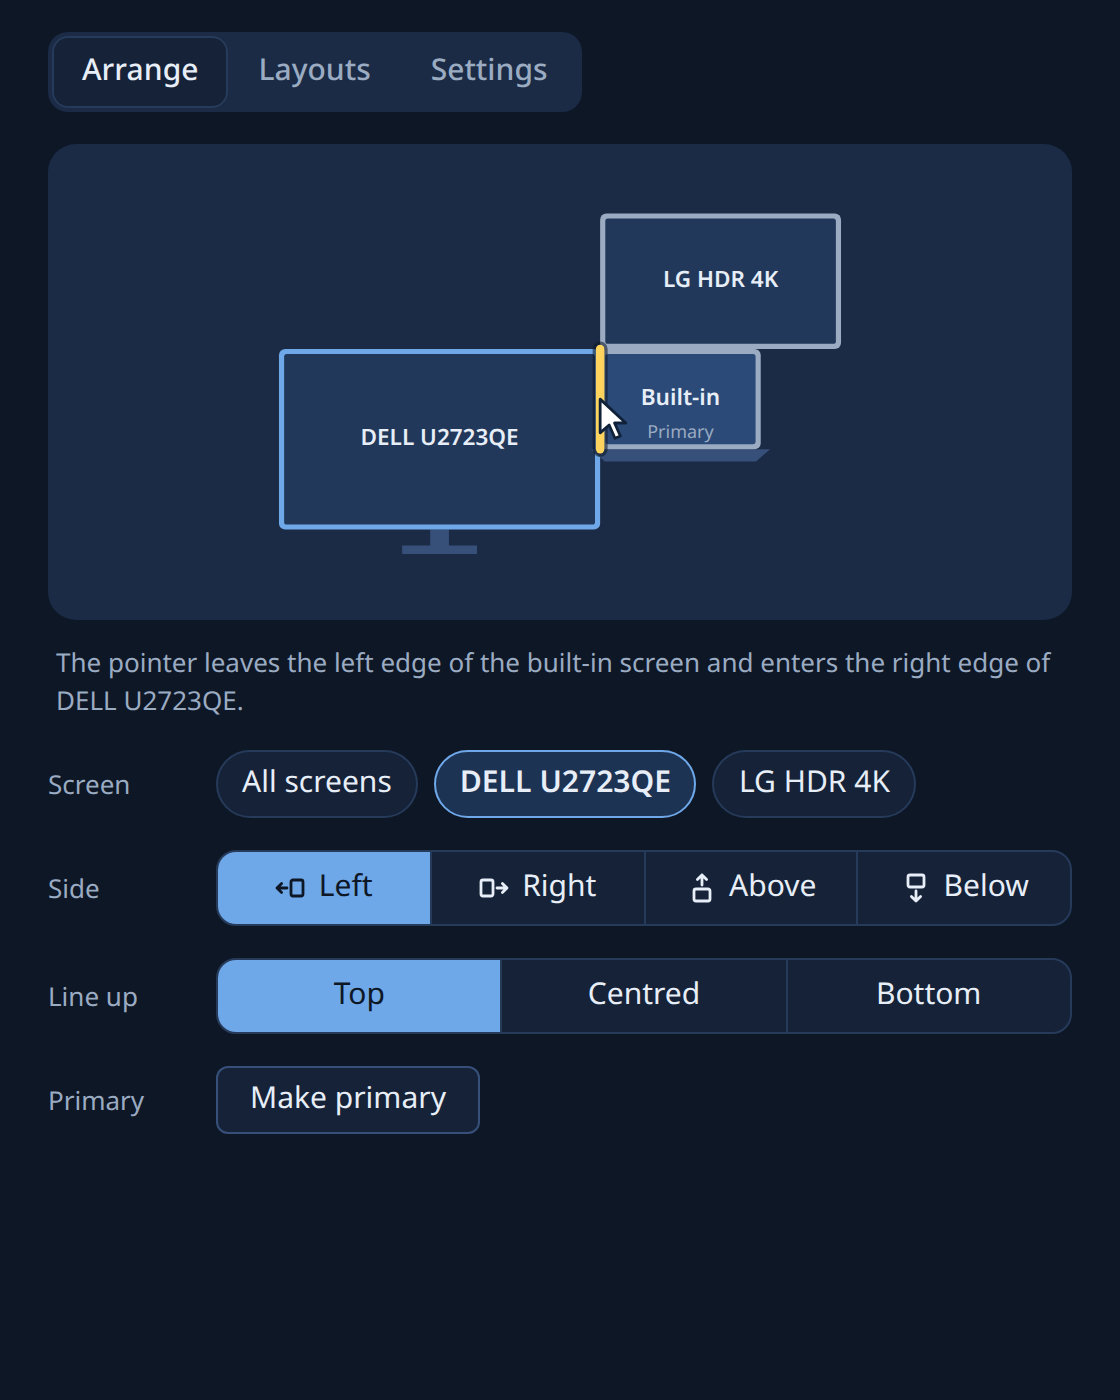
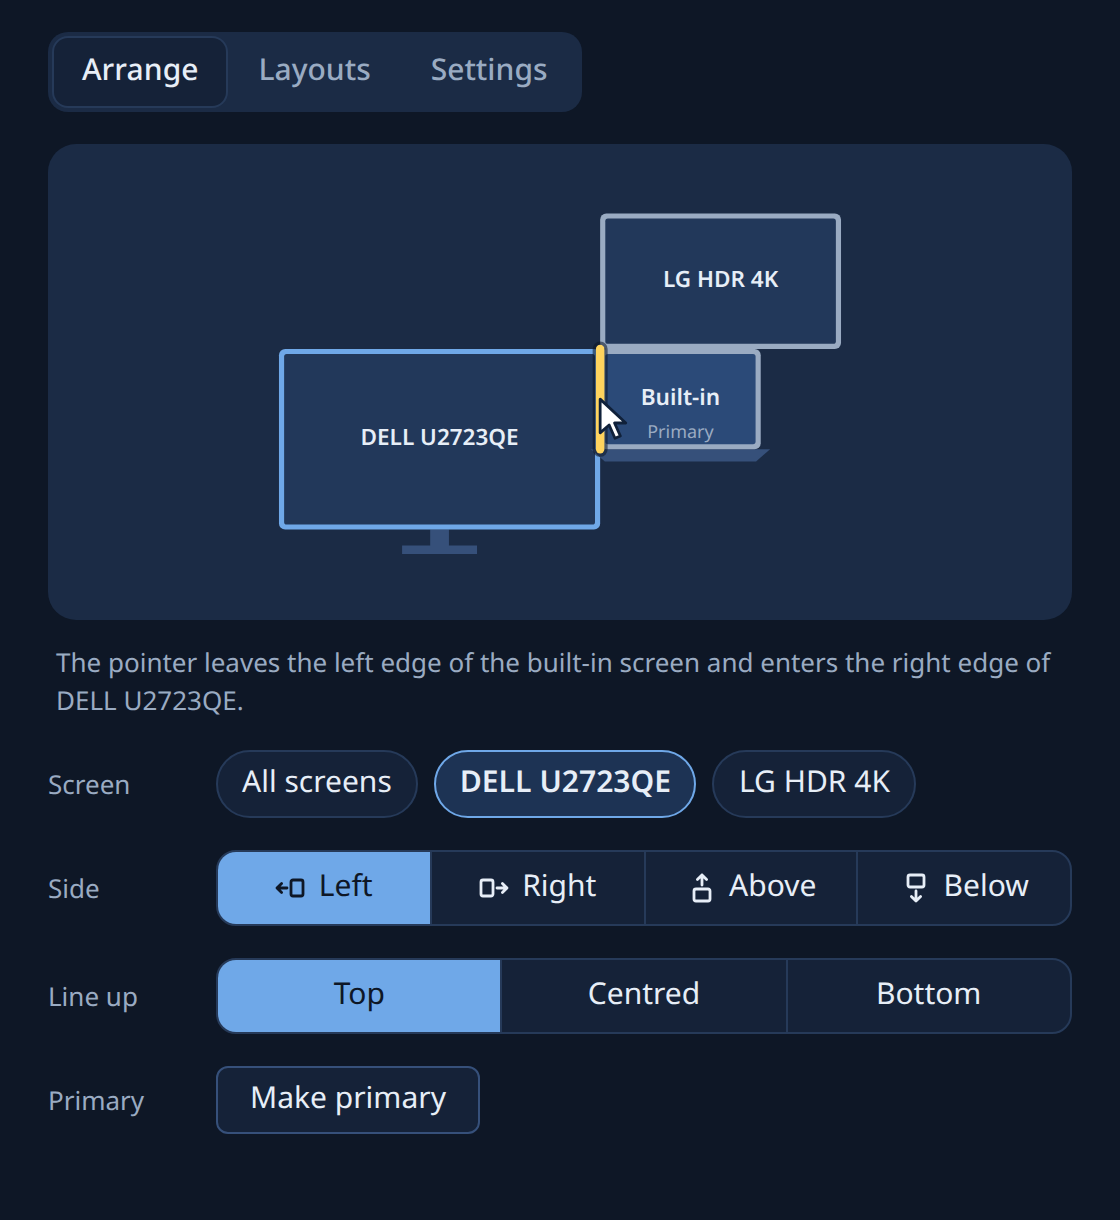
docs: centre the README screenshot and crop the shots to their content

diff --git a/app/e2e/screenshots.spec.ts b/app/e2e/screenshots.spec.ts
@@ -7,21 +7,23 @@ import { fileURLToPath } from 'node:url';
  */
 const out = (name: string) => fileURLToPath(new URL(`../../docs/img/${name}`, import.meta.url));
 
-test.use({ deviceScaleFactor: 2 });
+// A short viewport with fullPage: the page is then exactly as tall as its
+// content, so the shots carry no empty window below the last control.
+test.use({ deviceScaleFactor: 2, viewport: { width: 560, height: 320 } });
 
 for (const theme of ['light', 'dark'] as const) {
   test(`arrange, ${theme}`, async ({ page }) => {
     await page.emulateMedia({ reducedMotion: 'reduce' });
-    await page.goto(`/?screens=3&theme=${theme}`);
+    await page.goto(`/?screens=3&theme=${theme}&backend=kde`);
     await page.getByRole('radiogroup', { name: 'Screen to move' }).getByText('DELL U2723QE').click();
     await page.getByRole('group', { name: 'Side' }).getByRole('button', { name: 'Left' }).waitFor();
-    await page.screenshot({ path: out(`app-${theme}.png`) });
+    await page.screenshot({ path: out(`app-${theme}.png`), fullPage: true });
   });
 }
 
 test('layouts', async ({ page }) => {
   await page.emulateMedia({ reducedMotion: 'reduce' });
-  await page.goto('/?screens=2&theme=light');
+  await page.goto('/?screens=2&theme=light&backend=kde');
   await page.getByRole('tab', { name: 'Layouts' }).click();
   for (const [name, auto] of [['Office', true], ['Home desk', false]] as const) {
     await page.getByLabel('Name').fill(name);
@@ -30,5 +32,5 @@ test('layouts', async ({ page }) => {
     await page.getByRole('status').getByText(`Saved ${name}`).waitFor();
   }
   await page.getByRole('status').evaluate((el) => (el.textContent = ''));
-  await page.screenshot({ path: out('app-layouts.png') });
+  await page.screenshot({ path: out('app-layouts.png'), fullPage: true });
 });

diff --git a/site/index.html b/site/index.html
@@ -218,7 +218,7 @@
             <img
               src="../docs/img/app-light.png"
               width="560"
-              height="700"
+              height="610"
               loading="lazy"
               alt="The Screen Side window: a drawing of a monitor left of a laptop with a second monitor above it, the edge between the monitor and the laptop lit in yellow, and buttons for the side, the alignment and the primary screen."
             />

diff --git a/README.md b/README.md
@@ -4,10 +4,12 @@
 
 <h1 align="center">Screen Side</h1>
 
-<picture>
-  <source media="(prefers-color-scheme: dark)" srcset="docs/img/app-dark.png">
-  <img src="docs/img/app-light.png" width="420" alt="The Screen Side window: a monitor drawn left of a laptop with a second monitor above, the edge between the monitor and the laptop lit in yellow, and buttons for the side, the alignment and the primary screen.">
-</picture>
+<p align="center">
+  <picture>
+    <source media="(prefers-color-scheme: dark)" srcset="docs/img/app-dark.png">
+    <img src="docs/img/app-light.png" width="420" alt="The Screen Side window: a monitor drawn left of a laptop with a second monitor above, the edge between the monitor and the laptop lit in yellow, and buttons for the side, the alignment and the primary screen.">
+  </picture>
+</p>
 
 Screen Side tells your computer which side of the laptop your external monitor
 stands on, so the pointer leaves through the edge that faces it. Click a side,
